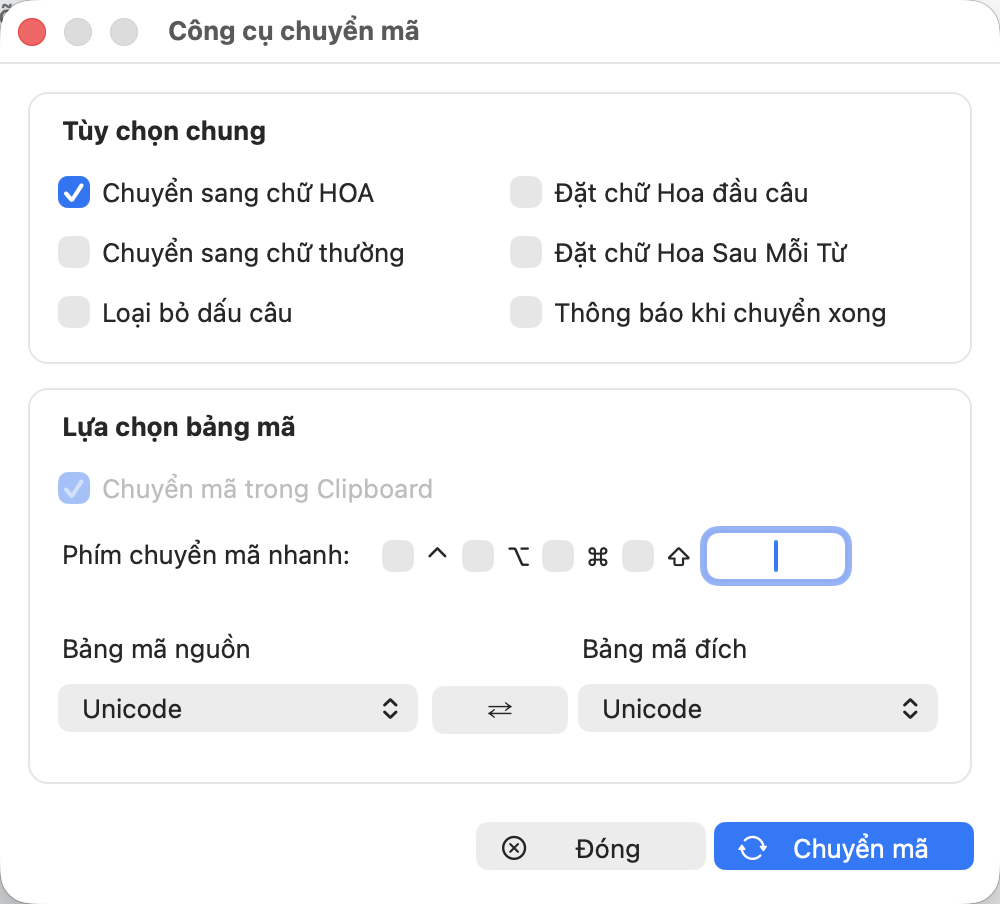
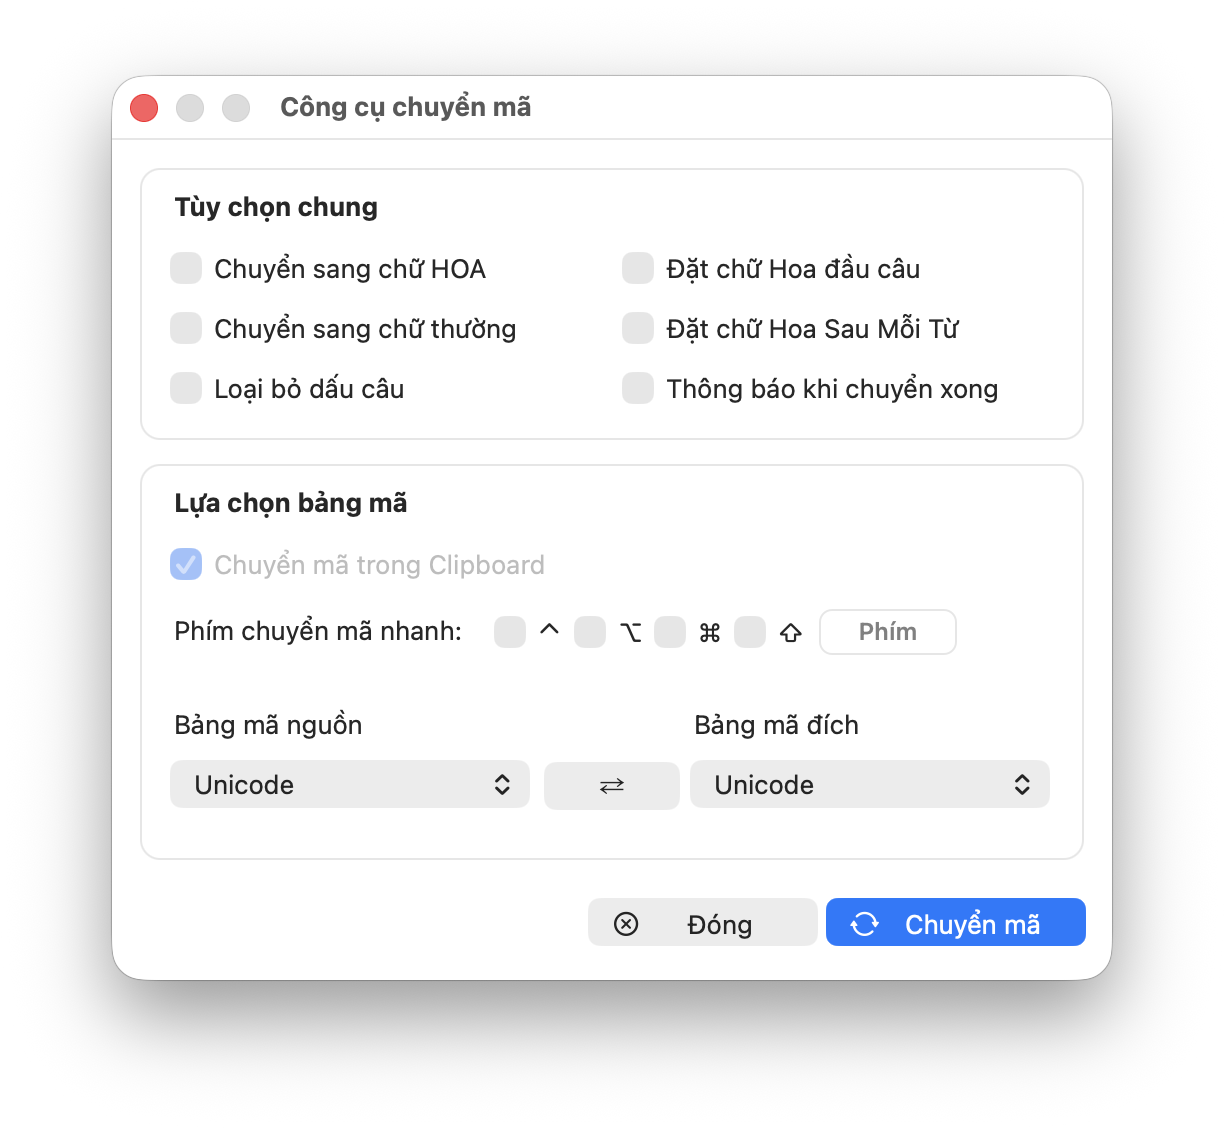
docs(screenshots): Cập nhật lại toàn bộ 15 ảnh chụp màn hình sang chế độ sáng (nền trắng) bo góc chuẩn macOS

diff --git a/README.md b/README.md
@@ -135,7 +135,7 @@ Cửa sổ "Thiết lập gõ tắt" được thiết kế tối ưu với khả
 </p>
 
 * **Huy hiệu số lượng & Xoá tất cả an toàn:**
-  - Góc phải dưới cùng hiển thị huy hiệu số lượng: `[📖] [77 từ tắt]`.
+  - Góc phải dưới cùng hiển thị huy hiệu số lượng: `[📖] [76 từ tắt]`.
   - Icon thùng rác kế bên cho phép xoá tất cả dữ liệu gõ tắt hiện có với hộp thoại xác nhận chuyên nghiệp, icon và tiêu đề căn giữa:
 
 <p align="center">
